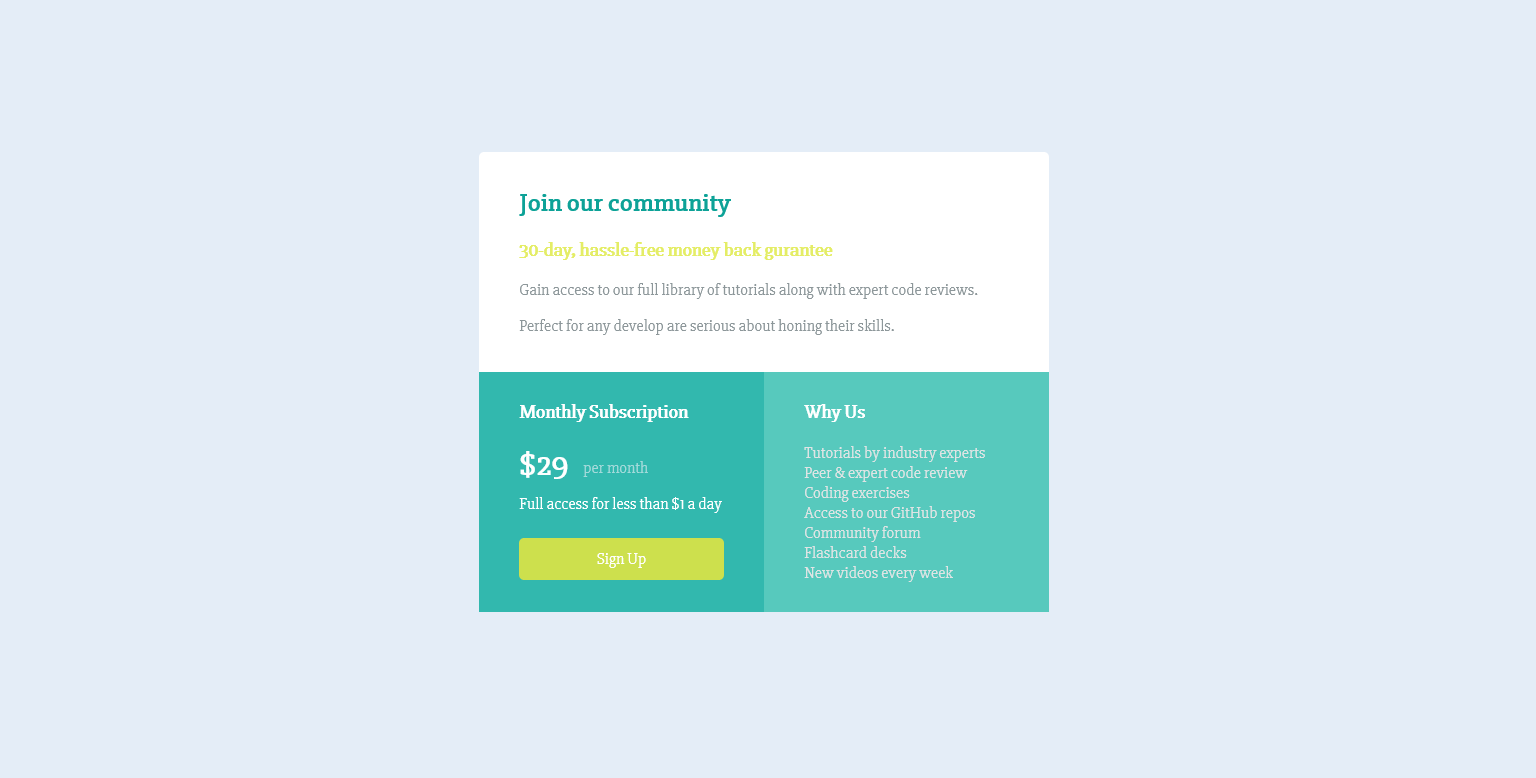
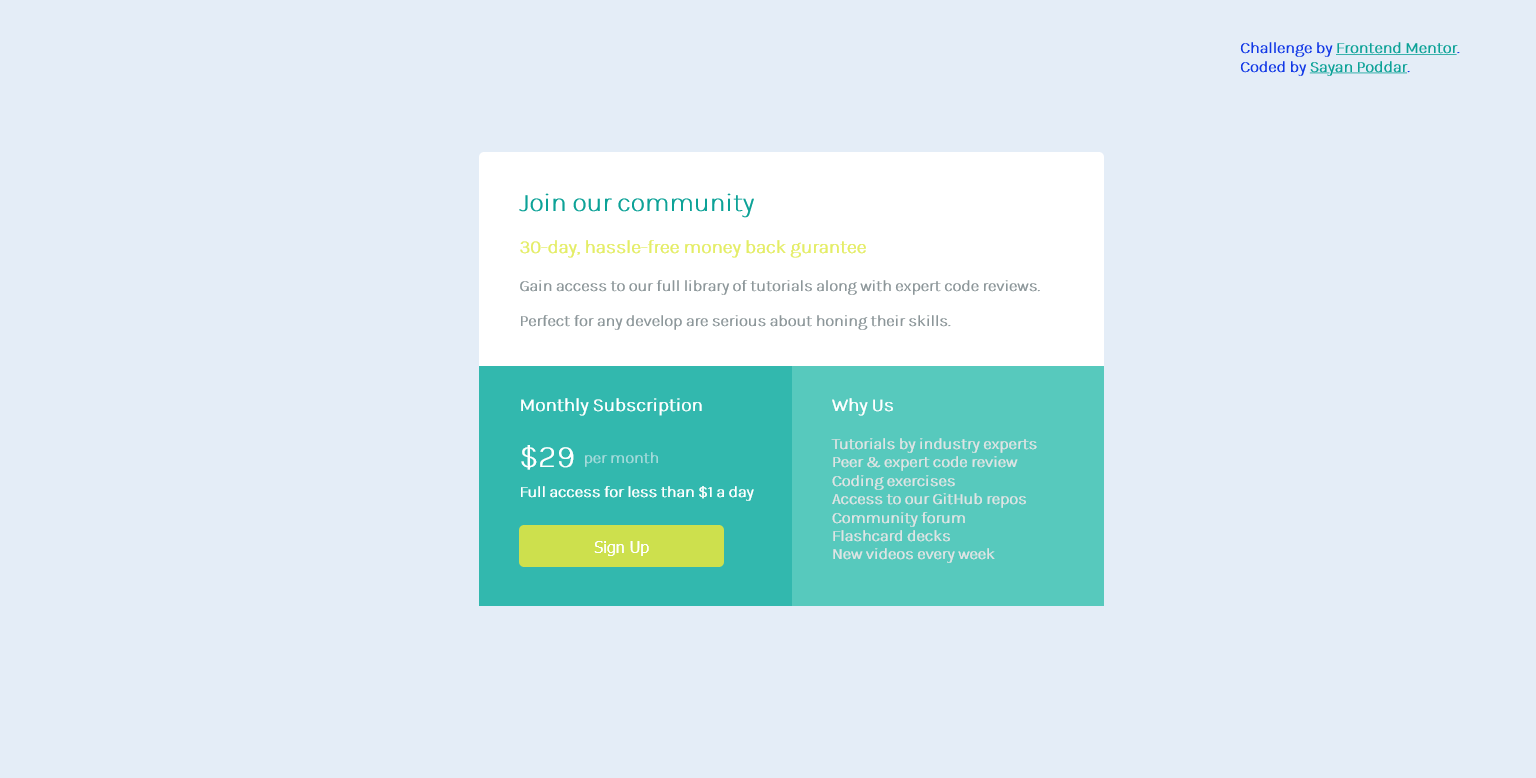
Add attribution

Changed region(s): [[0.3125, 0.1851, 0.7188, 0.8021], [0.3125, 0.2468, 0.5, 0.2776], [0.8125, 0.0617, 0.9375, 0.0925]]

diff --git a/style.css b/style.css
@@ -1,7 +1,7 @@
 body {
   background-color: rgb(228, 237, 247);
   font-family: 'Karla', sans-serif;
-  font-weight: 2px;
+  font-weight:bolder;
 }
 
 .center {
@@ -11,7 +11,7 @@ body {
   margin-right: 32%;
   margin-bottom: 10px;
   height: 434px;
-  width: 570px;
+  width: 625px;
   background-color: #fff;
 }
 
@@ -122,4 +122,18 @@ body {
     height: 200px;
     padding-left: 20px;
   }
+}
+
+.attribution{
+  position: absolute;
+  right : 0;
+  top: 0;
+  margin: 0;
+  transform:translate(-5vw, 5vh);
+  color: rgba(14, 53, 230, 0.986);
+  font-weight: bold;
+}
+
+.footer-link{
+  color: #0da297;
 }

diff --git a/index.html b/index.html
@@ -57,5 +57,10 @@
         </div>
       </div>
     </div>
+    <footer>
+      <p class="attribution">
+        Challenge by <a href="https://www.frontendmentor.io?ref=challenge" target="_blank" class="footer-link">Frontend Mentor</a>.<br> Coded by <a href="https://github.com/DecodewithHappy/Single-Price-Grid-Component" target="_blank" class="footer-link">Sayan Poddar</a>.
+      </p>
+    </footer>
   </body>
 </html>
